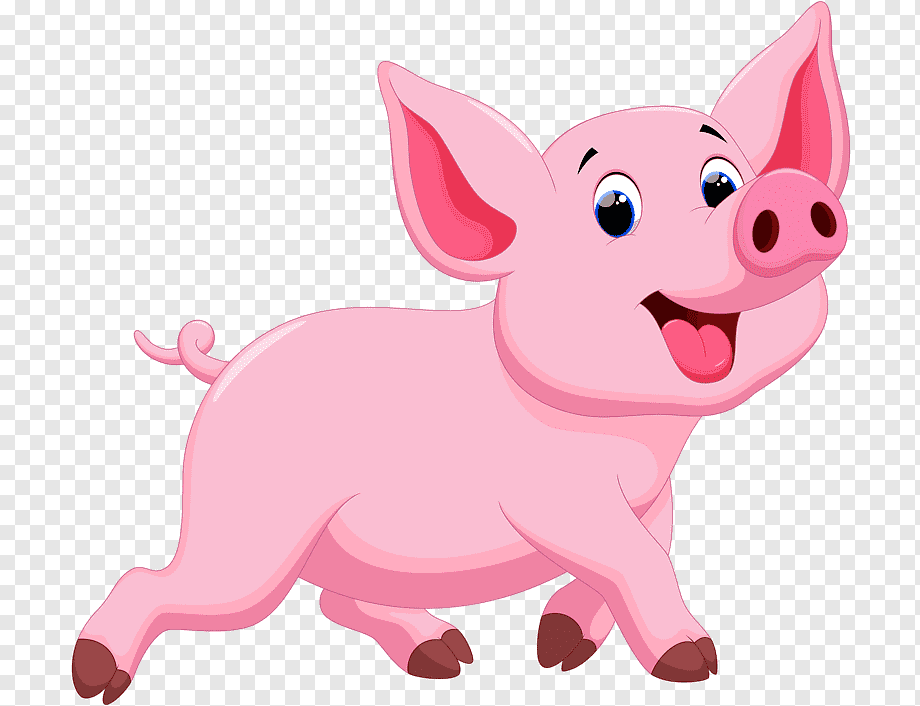
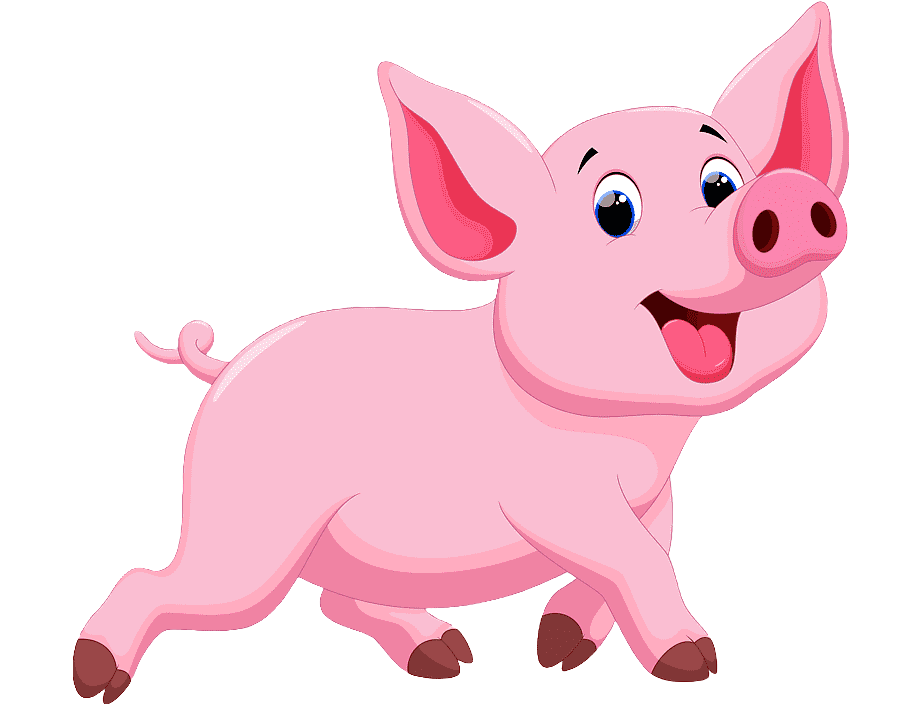
chat

Changed region(s): [[0.0, 0.0, 1.0, 1.0]]

diff --git a/08.html b/08.html
@@ -10,15 +10,15 @@
 <body>
 
     <main>
-
+        
         <img src="IMG\perfil.png" alt="foto de perfil" width="50">
 
         <h1> NOME </h1>
 
         <em> Tenho interesse! </em>
-        
+
         <div class="image-container">
-            <img src="IMG\Vaca_chat.jpeg" alt="imagem vaca" width="200">
+            <img src="IMG\Porco_chat.jpg" alt="imagem vaca" width="200">
         </div>
 
         <input type="text" name="chat" id="mensagem" placeholder="Digite sua mensagem">
